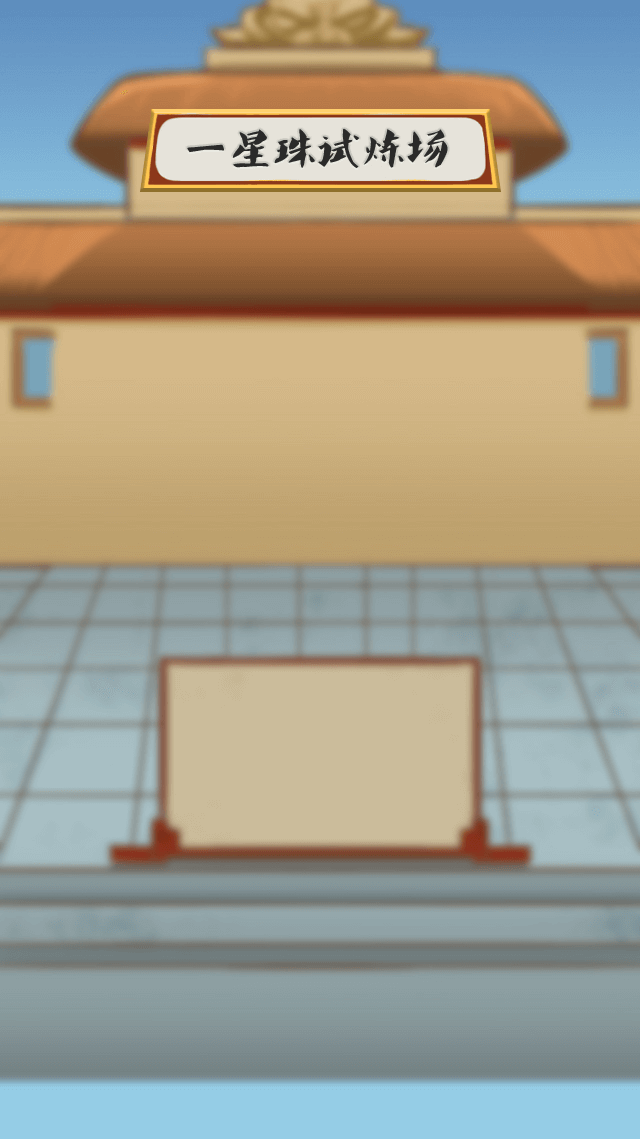
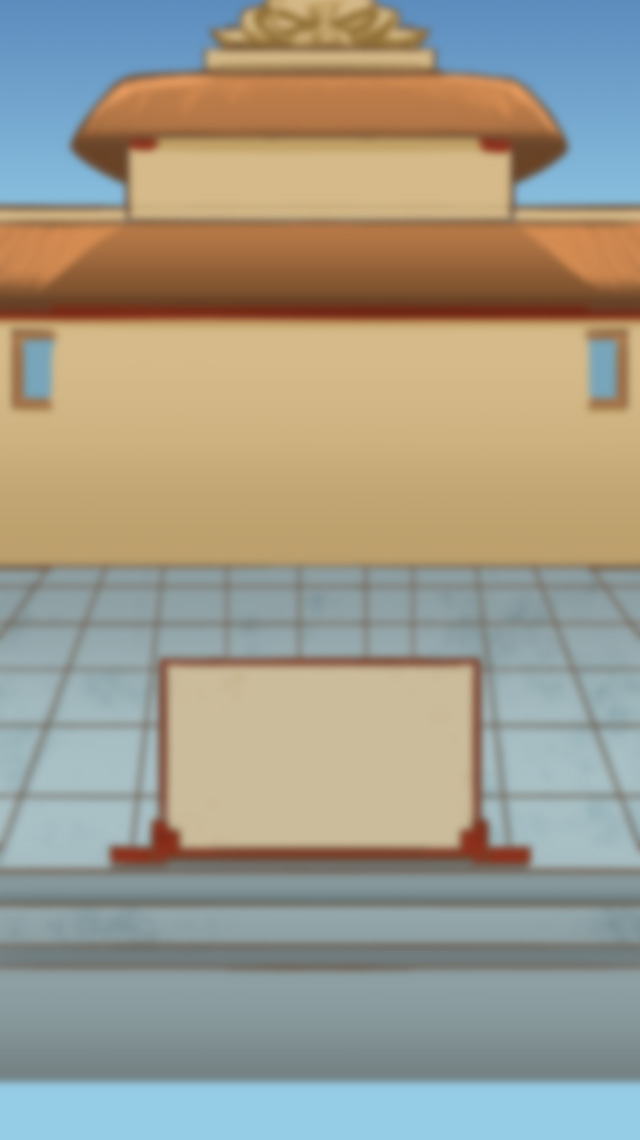
lucaljx
dragonball-page5-question:
fix:星级跟title匾对不上的问题

Changed region(s): [[0.2188, 0.0922, 0.7812, 0.1844]]

diff --git a/dragonball/src/components/question/question.vue b/dragonball/src/components/question/question.vue
@@ -2,6 +2,10 @@
 	<div id="question-wrapper">
 		<!-- 背景 -->
     <img class="question-wrapper-bg" src="./../../assets/images/question/bg.png" alt="">
+    <!-- title -->
+    <img v-if="$store.state.starIndex === 1" class="question-content-title-img" src="./../../assets/images/question/title-1.png" alt="">
+    <img v-if="$store.state.starIndex === 2" class="question-content-title-img" src="./../../assets/images/question/title-2.png" alt="">
+    <img v-if="$store.state.starIndex === 3" class="question-content-title-img" src="./../../assets/images/question/title-3.png" alt="">
 		<!-- 答题主体 -->
 		<div class="question-content">
 			<div class="question-content-wrapper">
@@ -493,6 +497,12 @@ export default {
 }
 .question-wrapper-bg {
   width: 100%;
+}
+.question-content-title-img {
+  width: 6.4rem;
+  height: .83rem;
+  position: absolute;
+  top: 1rem;
 }
 /**
 答题主体
